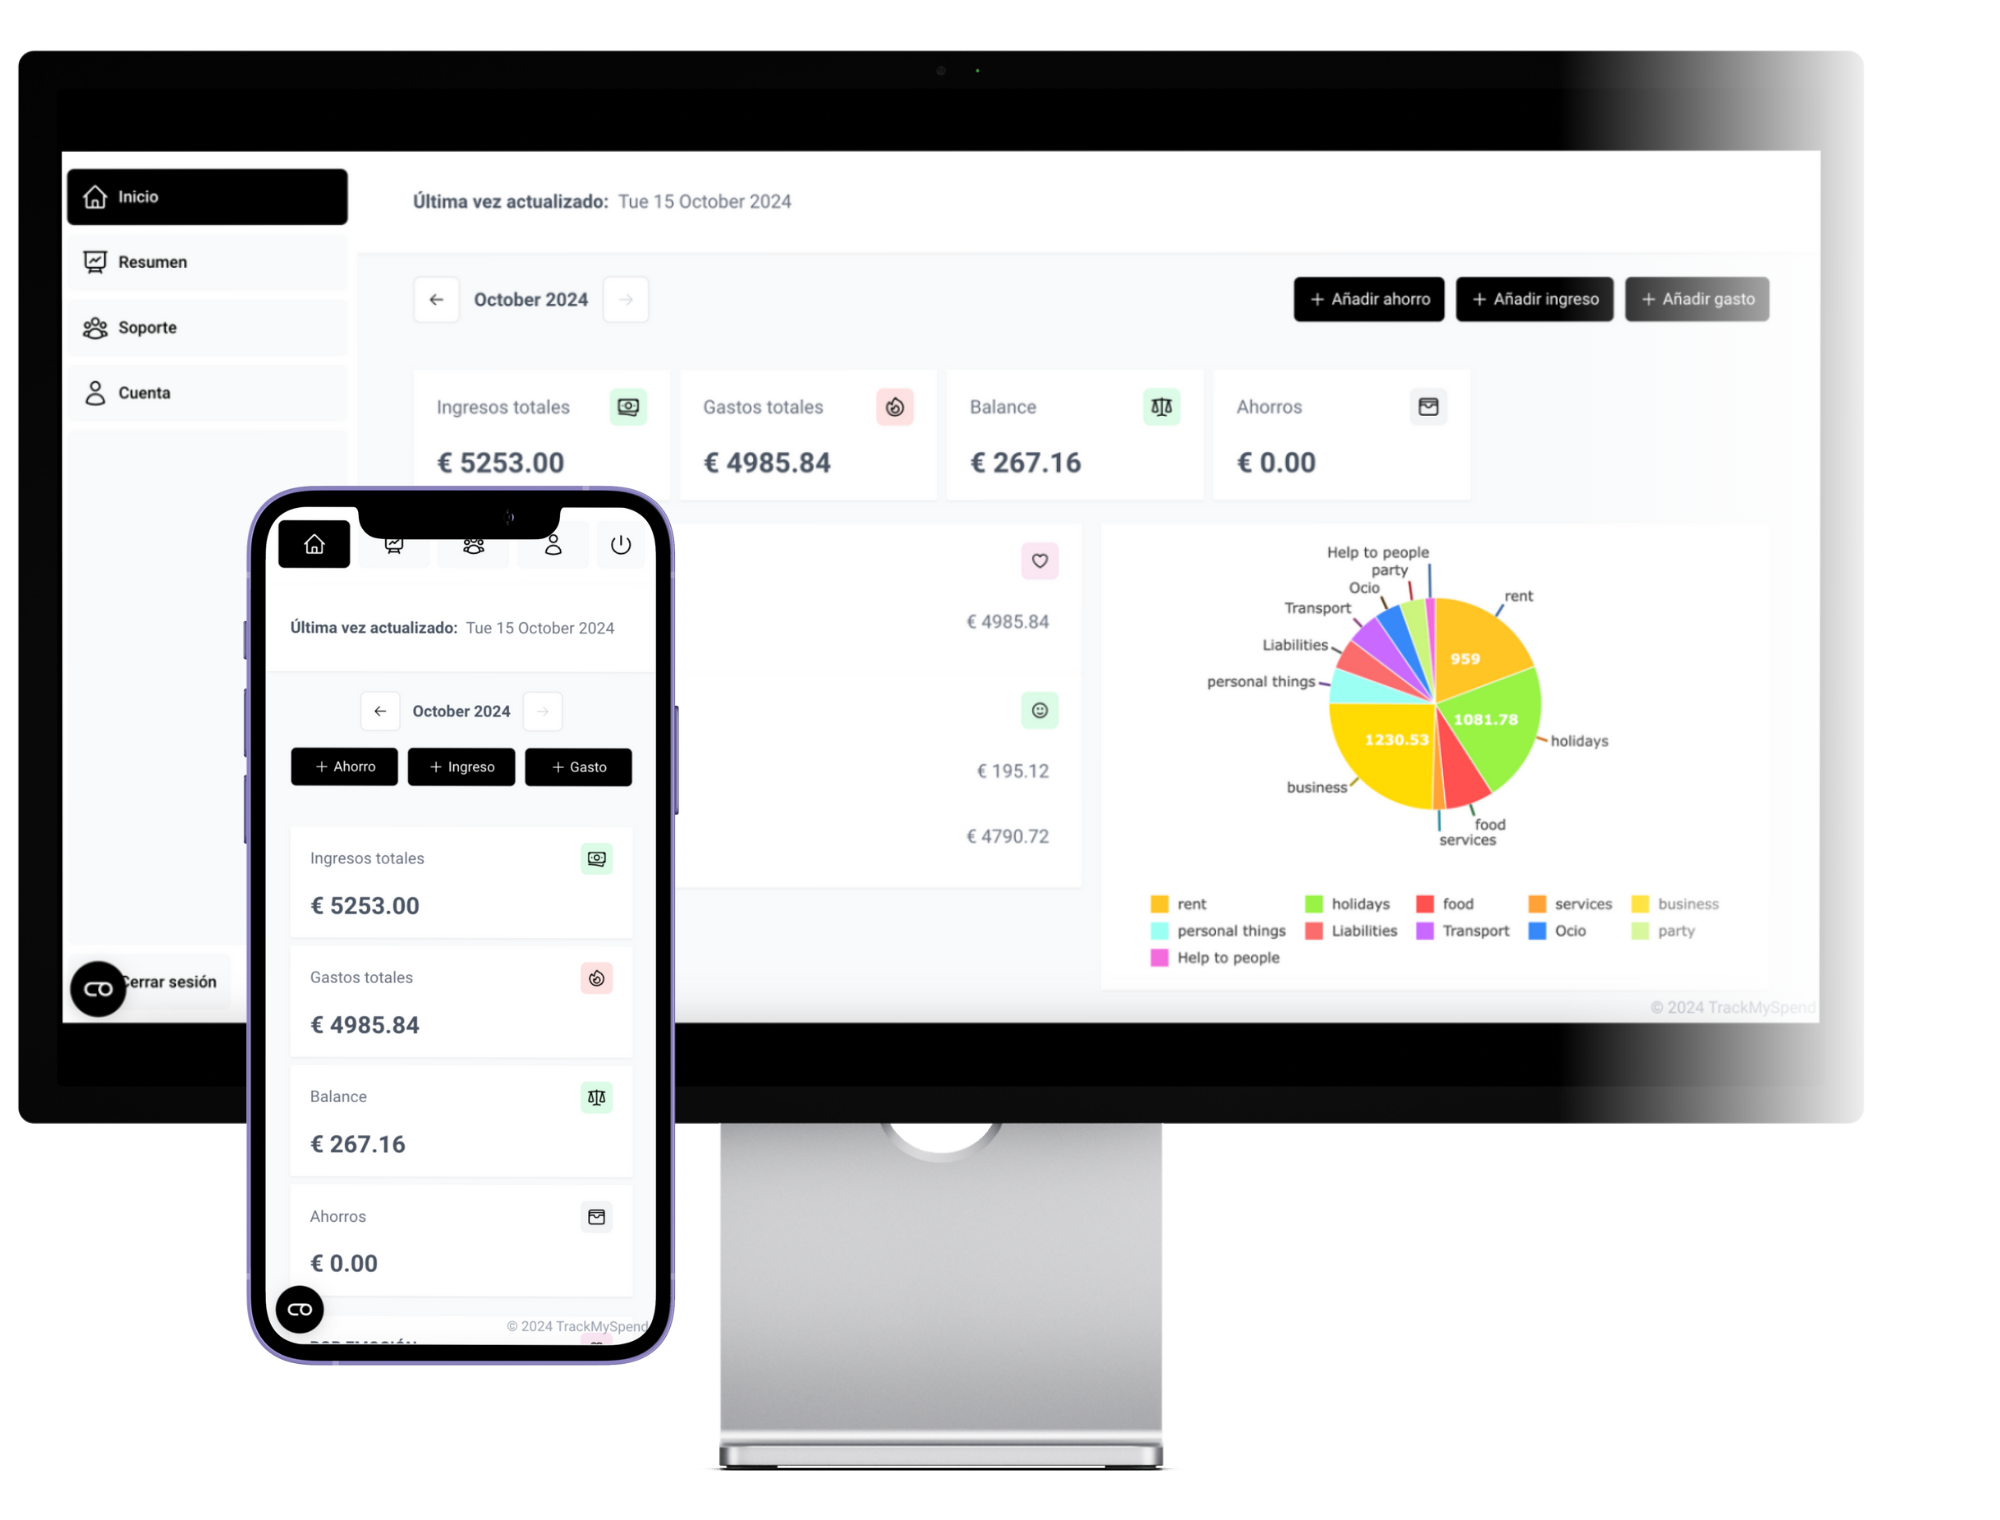
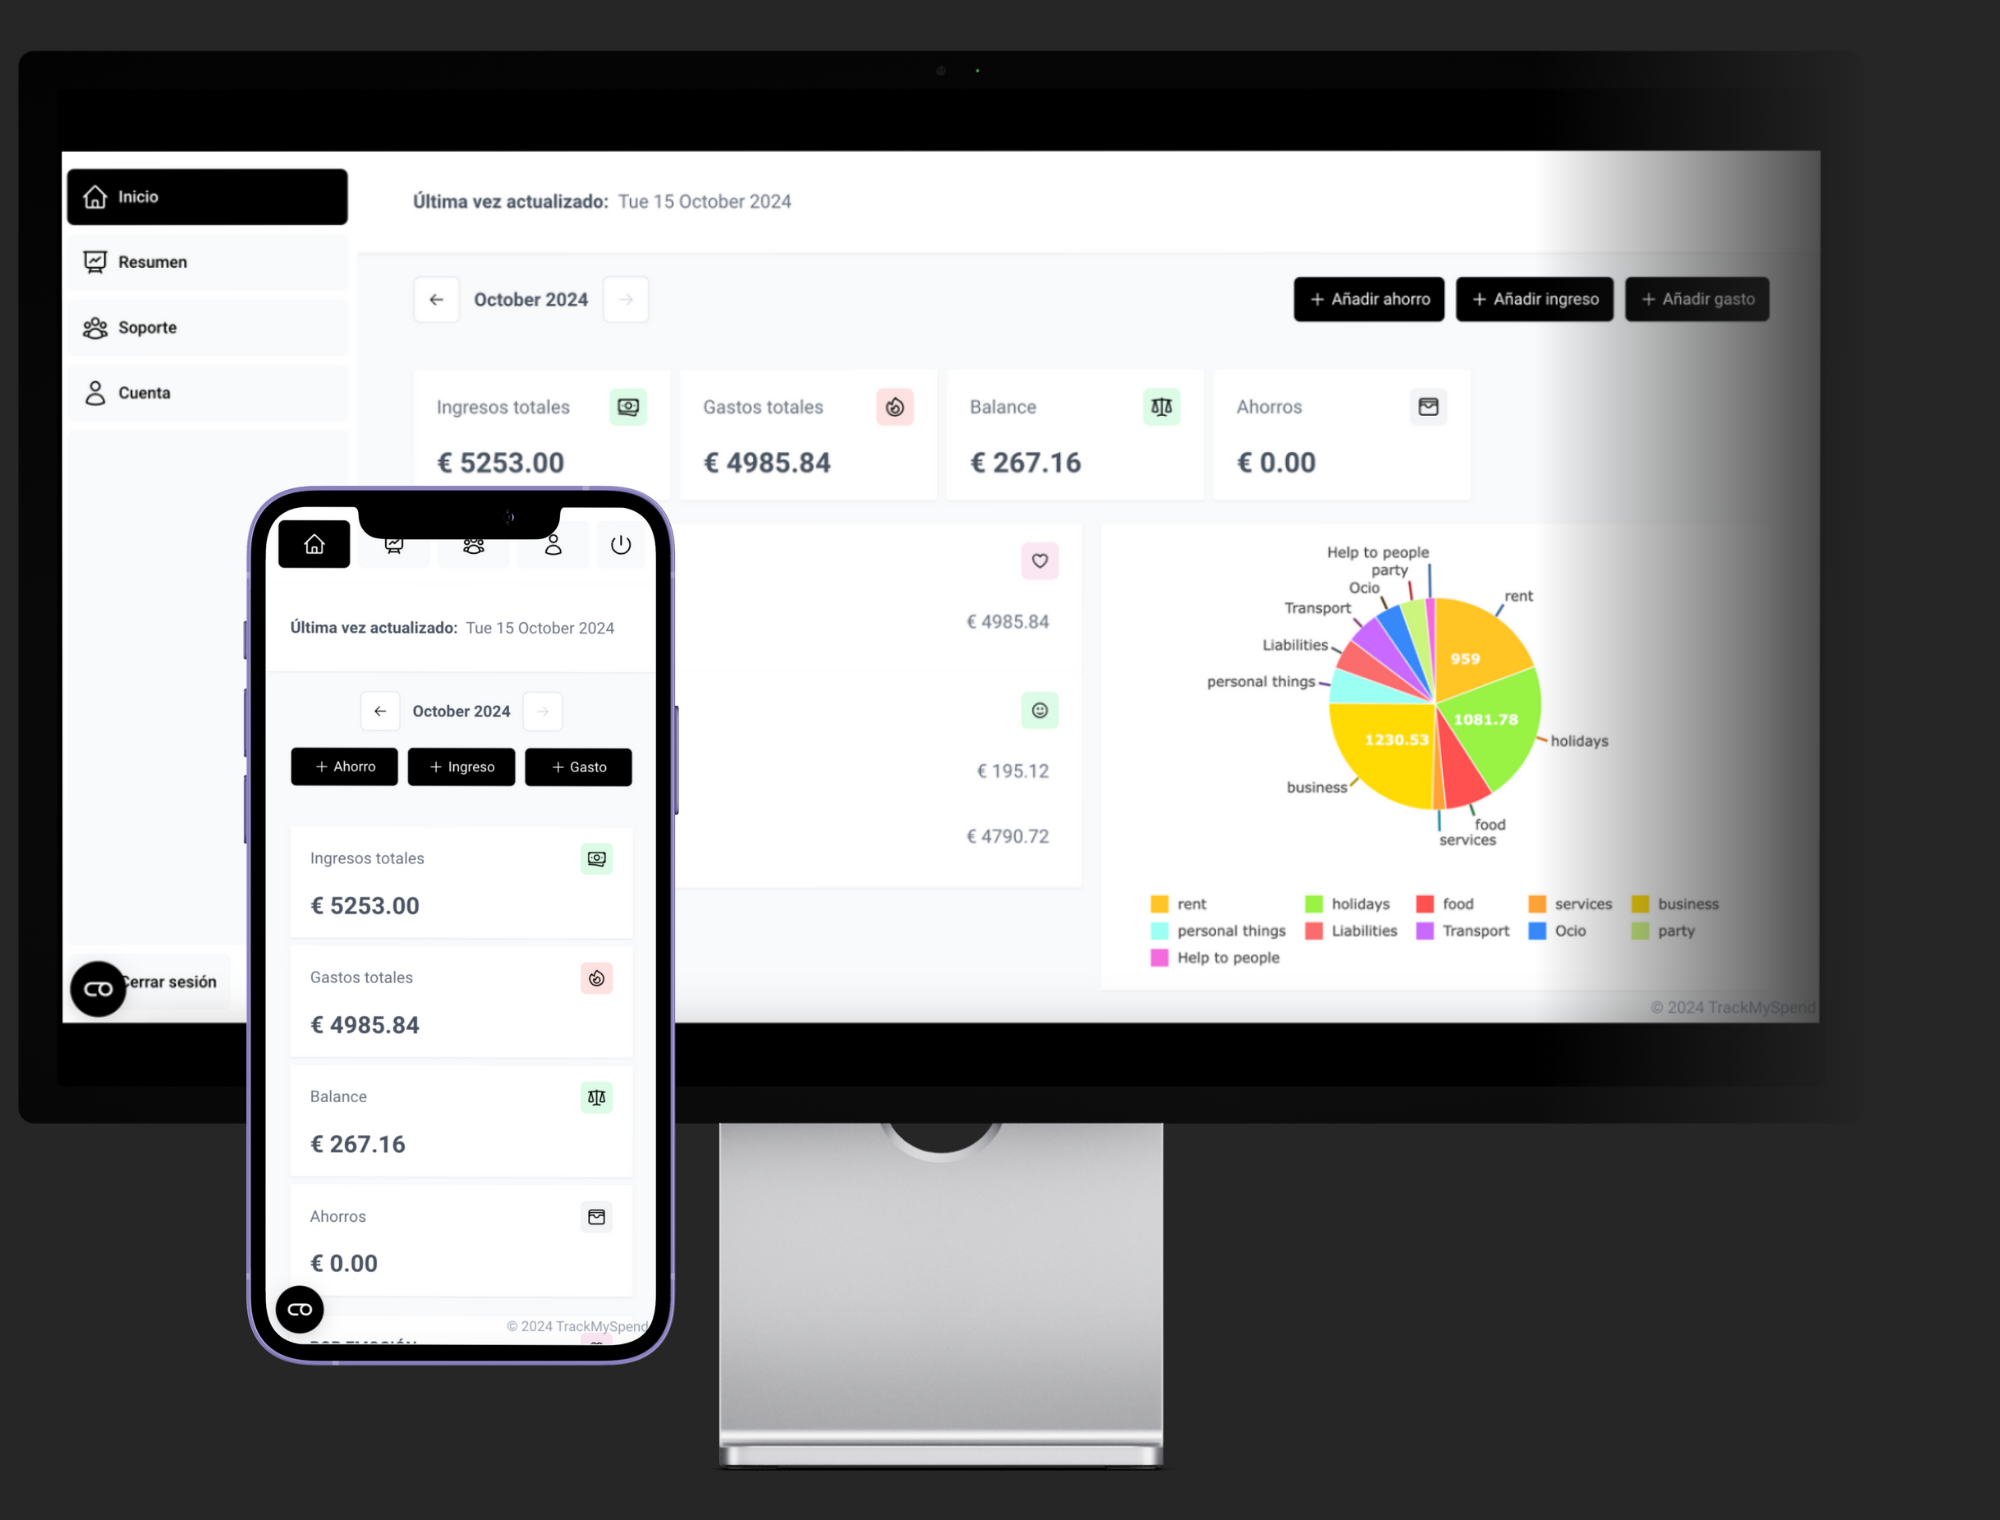
changess

diff --git a/app/[lang]/page.tsx b/app/[lang]/page.tsx
@@ -1,7 +1,7 @@
 import { BanknotesIcon } from "@heroicons/react/24/solid";
 import Link from "next/link";
 import Image from "next/image";
-import { Container, Footer, Header } from "@/src/ui/components";
+import { Container, Footer, Header, XIcon } from "@/src/ui/components";
 import { AvailableLanguages, getDictionary } from "@/src/translations";
 import {
   KeyFeatures,
@@ -78,7 +78,7 @@ export default async function MainPage({ params: { lang } }: MainPageProps) {
               </div>
             </div>
 
-            <section className="flex flex-wrap items-center justify-center text-neutral-100 mt-6 mb-12 xl:mt-32 xl:mb-0">
+            <section className="flex flex-wrap items-center justify-center text-neutral-100 mt-6 mb-12 xl:py-5">
               <span className="text-xs opacity-50">Featured on</span>
               <a
                 href="https://x.com/ottobonilla95/status/1843986969715691806"
@@ -86,30 +86,7 @@ export default async function MainPage({ params: { lang } }: MainPageProps) {
                 rel="noreferrer"
                 title="Featured on X.com"
               >
-                <svg
-                  className="w-8 md:w-9 fill-base-content saturate-0 contrast-50 opacity-80 hover:opacity-100 hover:saturate-100 hover:contrast-100 duration-100 cursor-pointer"
-                  viewBox="0 0 252 252"
-                  fill="none"
-                  xmlns="http://www.w3.org/2000/svg"
-                >
-                  <g clip-path="url(#clip0_177_29)">
-                    <path
-                      d="M126 250.793C195.036 250.793 251 194.875 251 125.897C251 56.9181 195.036 1 126 1C56.9644 1 1 56.9181 1 125.897C1 194.875 56.9644 250.793 126 250.793Z"
-                      fill="black"
-                      stroke="white"
-                      stroke-miterlimit="10"
-                    ></path>
-                    <path
-                      d="M48.9999 53.5352L108.748 133.357L48.6233 198.256H62.1561L114.797 141.435L157.327 198.256H203.377L140.265 113.945L196.23 53.5352H182.697L134.219 105.865L95.0494 53.5352H48.9999ZM68.9004 63.4941H90.0554L183.474 188.297H162.319L68.9004 63.4941Z"
-                      fill="white"
-                    ></path>
-                  </g>
-                  <defs>
-                    <clipPath id="clip0_177_29">
-                      <rect width="252" height="252" fill="white"></rect>
-                    </clipPath>
-                  </defs>
-                </svg>
+                <XIcon className="w-8 md:w-9" />
               </a>
             </section>
           </Container>
@@ -121,7 +98,7 @@ export default async function MainPage({ params: { lang } }: MainPageProps) {
           <AppScreenshots dict={dict} />
           <Testimonials dict={dict} />
           <div className="py-10 text-neutral-100 tracking-tight">
-            <h2 className="text-5xl font-bold mb-10 text-center">
+            <h2 className="text-5xl font-bold sm:mb-10 xl:mb-12 text-center">
               {dict.shared.pricing}
             </h2>
             <Pricing dict={dict} lang={lang} />

diff --git a/src/ui/components/atoms/icons/x.tsx b/src/ui/components/atoms/icons/x.tsx
@@ -1,0 +1,34 @@
+import clsx from "clsx";
+import { IconProps } from "./types";
+
+export const XIcon = ({ className }: IconProps) => {
+  return (
+    <svg
+      className={clsx(
+        "fill-base-content saturate-0 contrast-50 opacity-80 hover:opacity-100 hover:saturate-100 hover:contrast-100 duration-100 cursor-pointer",
+        className
+      )}
+      viewBox="0 0 252 252"
+      fill="none"
+      xmlns="http://www.w3.org/2000/svg"
+    >
+      <g clip-path="url(#clip0_177_29)">
+        <path
+          d="M126 250.793C195.036 250.793 251 194.875 251 125.897C251 56.9181 195.036 1 126 1C56.9644 1 1 56.9181 1 125.897C1 194.875 56.9644 250.793 126 250.793Z"
+          fill="black"
+          stroke="white"
+          stroke-miterlimit="10"
+        ></path>
+        <path
+          d="M48.9999 53.5352L108.748 133.357L48.6233 198.256H62.1561L114.797 141.435L157.327 198.256H203.377L140.265 113.945L196.23 53.5352H182.697L134.219 105.865L95.0494 53.5352H48.9999ZM68.9004 63.4941H90.0554L183.474 188.297H162.319L68.9004 63.4941Z"
+          fill="white"
+        ></path>
+      </g>
+      <defs>
+        <clipPath id="clip0_177_29">
+          <rect width="252" height="252" fill="white"></rect>
+        </clipPath>
+      </defs>
+    </svg>
+  );
+};

diff --git a/app/[lang]/pricing/page.tsx b/app/[lang]/pricing/page.tsx
@@ -28,10 +28,11 @@ export default async function AboutUsPage({
     <>
       <main className="flex min-h-screen flex-col bg-neutral-800 text-neutral-100">
         <Header dict={dict} lang={lang} />
-        <h2 className="text-4xl font-bold mb-10 text-center pt-16">
+        <h2 className="text-4xl font-bold sm:pb-12 text-center pt-4 xl:pt-8">
           {dict.pricingPage.chooseYourPlan}
         </h2>
         <Pricing dict={dict} lang={lang} />
+        <div className="h-10"/>
       </main>
       <Footer dict={dict} />
     </>

diff --git a/src/ui/components/atoms/icons/spinner.tsx b/src/ui/components/atoms/icons/spinner.tsx
@@ -1,8 +1,7 @@
 import clsx from "clsx";
+import { IconProps } from "./types";
 
-export type SpinnerProps = { className?: string };
-
-export const Spinner = ({ className }: SpinnerProps) => {
+export const Spinner = ({ className }: IconProps) => {
   return (
     <svg
       aria-hidden="true"

diff --git a/src/ui/components/atoms/icons/index.ts b/src/ui/components/atoms/icons/index.ts
@@ -1,1 +1,2 @@
-export * from "./spinner";
+export * from "./spinner"
+export * from "./x"

diff --git a/src/ui/components/atoms/icons/types.ts b/src/ui/components/atoms/icons/types.ts
@@ -1,0 +1,1 @@
+export type IconProps = { className?: string };
